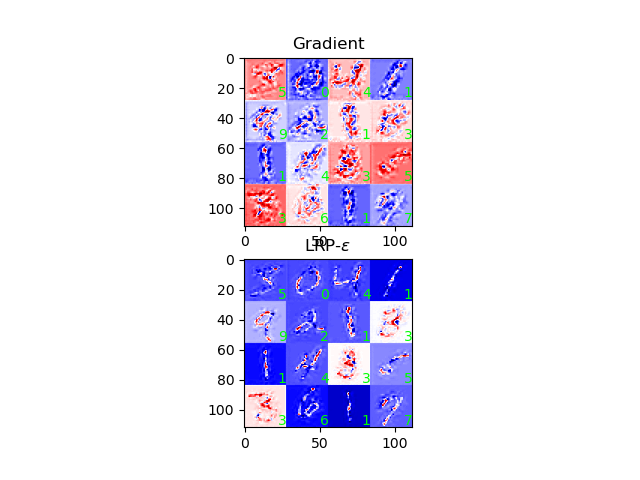
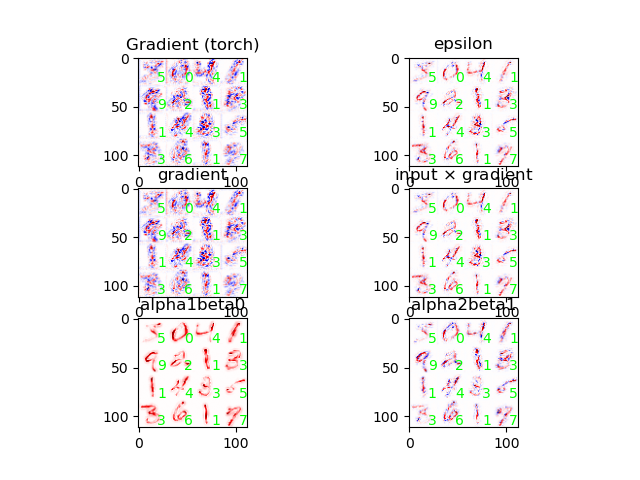
Added alpha beta rule to convolutions and linear layers.

Changed region(s): [[0.1562, 0.0625, 0.8438, 0.9375]]

diff --git a/examples/relevance_based.py b/examples/relevance_based.py
@@ -10,8 +10,13 @@ train_loader, test_loader = get_mnist_data(batch_size=batch_size)
 
 def normalize_and_merge_batch(a):
     a = a.permute(0, 2, 3, 1)
-    a -= a.view(batch_size, -1).min(1)[0].view(-1, 1, 1, 1)
+    # a -= a.view(batch_size, -1).min(1)[0].view(-1, 1, 1, 1)
     a /= torch.abs(a).view(batch_size, -1).max(1)[0].view(-1, 1, 1, 1) + 1e-6
+
+    if a.min() < 0: a = (a+1) / 2
+    else:           a = (a+1) / 2
+
+    print(a.min(), a.max())
 
     a = a.view(4, 4, 28, 28, 1)
     a = a.permute(0, 2, 1, 3, 4)
@@ -28,36 +33,47 @@ y_hat = y_hat[torch.arange(batch_size), pred]
 y_hat = y_hat.sum()
 y_hat.backward()
 _y_hat = y_hat
-
-
 a = normalize_and_merge_batch(x.grad)
 
-x.grad = None
-y_hat = model.forward(x, explain=True)
-y_hat = y_hat[torch.arange(batch_size), y_hat.max(1)[1]]
-y_hat = y_hat.sum()
-y_hat.backward()
+def plot_attribution(a, ax_, title):
 
-assert torch.allclose(_y_hat, y_hat)
+    cmap = plt.get_cmap('seismic')
 
-b = normalize_and_merge_batch(x.grad)
+    colors = cmap(a.view(-1))
+    colors = colors.reshape(a.size(0), a.size(1), 4)
+     
+    ax_.imshow(colors)
+    for i in range(4):
+        for j in range(4):
+            ax_.text(28+j*28, 28+i*28, pred[i*4+j].item(), horizontalalignment="right", verticalalignment="bottom", color="lime")
+    ax_.set_title(title)
 
-fig, ax = plt.subplots(2, 1)
+fig, ax = plt.subplots(3, 2)
+plot_attribution(a, ax[0, 0], "Gradient (torch)")
 
-ax[0].imshow(a, cmap='seismic')
-for i in range(4):
-    for j in range(4):
-        ax[0].text(28+j*28, 28+i*28, pred[i*4+j].item(), horizontalalignment="right", verticalalignment="bottom", color="lime")
+def run_and_plot_rule(rule, ax_, title=None, postprocess=None): 
+    x.grad = None
+    y_hat = model.forward(x, explain=True, rule=rule)
+    y_hat = y_hat[torch.arange(batch_size), y_hat.max(1)[1]]
+    y_hat = y_hat.sum()
+    y_hat.backward()
+    assert torch.allclose(_y_hat, y_hat)
 
+    attr = x.grad
+    if postprocess: 
+        with torch.no_grad(): 
+            attr = postprocess(attr)
 
-ax[1].imshow(b, cmap='seismic')
-for i in range(4):
-    for j in range(4):
-        ax[1].text(28+j*28, 28+i*28, pred[i*4+j].item(), horizontalalignment="right", verticalalignment="bottom", color="lime")
+    attr = normalize_and_merge_batch(attr)
+    if title is None: title = rule
+    plot_attribution(attr, ax_, title)
 
-ax[0].set_title("Gradient")
-ax[1].set_title("LRP-$\\varepsilon$")
-
+run_and_plot_rule("epsilon", ax[0, 1])
+run_and_plot_rule("gradient", ax[1, 0])
+run_and_plot_rule("gradient", ax[1, 1], title="input $\\times$ gradient", postprocess = lambda attribution: attribution * x)
+run_and_plot_rule("alpha1beta0", ax[2, 0])
+run_and_plot_rule("alpha2beta1", ax[2, 1])
+# 
 fig.savefig("model trained 1 epoch")
 plt.show()
 

diff --git a/lrp/functional/conv.py b/lrp/functional/conv.py
@@ -1,3 +1,4 @@
+import torch
 import torch.nn.functional as F
 from torch.autograd import Function
 
@@ -17,5 +18,64 @@ class Conv2DEpsilon(Function):
         relevance_input  = relevance_input * input
         return relevance_input, *[None]*6
 
-conv2d = Conv2DEpsilon.apply
+def _conv_alpha_beta_forward(ctx, input, weight, bias, stride, padding, dilation, groups): 
+    Z = F.conv2d(input, weight, bias, stride, padding, dilation, groups)
+    ctx.save_for_backward(input, weight, Z,  bias)
+    return Z
+
+def _conv_alpha_beta_backward(alpha, beta, ctx, relevance_output):
+        input, weights, Z, bias = ctx.saved_tensors
+        sel = weights > 0
+        zeros = torch.zeros_like(weights)
+
+        weights_pos       = torch.where(sel,  weights, zeros)
+        weights_neg       = torch.where(~sel, weights, zeros)
+
+        input_pos         = torch.where(input >  0, input, torch.zeros_like(input))
+        input_neg         = torch.where(input <= 0, input, torch.zeros_like(input))
+
+        def f(X1, X2, W1, W2): 
+
+            Z1  = F.conv2d(X1, W1, bias=None, stride=1, padding=1) 
+            Z2  = F.conv2d(X2, W2, bias=None, stride=1, padding=1)
+            Z   = Z1 + Z2
+
+            rel_out = relevance_output / (Z + (Z==0).float()* 1e-6)
+
+            t1 = F.conv_transpose2d(rel_out, W1, bias=None, padding=1) 
+            t2 = F.conv_transpose2d(rel_out, W2, bias=None, padding=1)
+
+            r1  = t1 * X1
+            r2  = t2 * X2
+
+            return r1 + r2
+        pos_rel = f(input_pos, input_neg, weights_pos, weights_neg)
+        neg_rel = f(input_neg, input_pos, weights_pos, weights_neg)
+
+        return pos_rel * alpha - neg_rel * beta, *[None]*6        
+
+class Conv2DAlpha1Beta0(Function):
+    @staticmethod
+    def forward(ctx, input, weight, bias=None, stride=1, padding=0, dilation=1, groups=1):
+        return _conv_alpha_beta_forward(ctx, input, weight, bias, stride, padding, dilation, groups)
+    
+    @staticmethod
+    def backward(ctx, relevance_output):
+        return _conv_alpha_beta_backward(1., 0., ctx, relevance_output)
+
+class Conv2DAlpha2Beta1(Function):
+    @staticmethod
+    def forward(ctx, input, weight, bias=None, stride=1, padding=0, dilation=1, groups=1):
+        return _conv_alpha_beta_forward(ctx, input, weight, bias, stride, padding, dilation, groups)
+    
+    @staticmethod
+    def backward(ctx, relevance_output):
+        return _conv_alpha_beta_backward(2., 1., ctx, relevance_output)
+
+conv2d = {
+        "gradient":             F.conv2d,
+        "epsilon":              Conv2DEpsilon.apply,
+        "alpha1beta0":          Conv2DAlpha1Beta0.apply,
+        "alpha2beta1":          Conv2DAlpha2Beta1.apply,
+}
 

diff --git a/lrp/functional/linear.py b/lrp/functional/linear.py
@@ -1,3 +1,4 @@
+import torch
 import torch.nn.functional as F
 from torch.autograd import Function
 
@@ -17,4 +18,65 @@ class LinearEpsilon(Function):
         relevance_input  = relevance_input * input
         return relevance_input, None, None
 
-linear = LinearEpsilon.apply
+
+def _forward_alpha_beta(ctx, input, weight, bias):
+    Z = F.linear(input, weight, bias)
+    ctx.save_for_backward(input, weight, Z, bias)
+    return Z
+
+def _backward_alpha_beta(alpha, beta, ctx, relevance_output):
+    input, weights, Z, bias = ctx.saved_tensors
+    sel = weights > 0
+    zeros = torch.zeros_like(weights)
+
+    weights_pos       = torch.where(sel,  weights, zeros)
+    weights_neg       = torch.where(~sel, weights, zeros)
+
+    input_pos         = torch.where(input >  0, input, torch.zeros_like(input))
+    input_neg         = torch.where(input <= 0, input, torch.zeros_like(input))
+
+    def f(X1, X2, W1, W2): 
+
+        Z1  = F.linear(X1, W1, bias=None) 
+        Z2  = F.linear(X2, W2, bias=None)
+        Z   = Z1 + Z2
+
+        rel_out = relevance_output / (Z + (Z==0).float()* 1e-6)
+
+        t1 = F.linear(rel_out, W1.t(), bias=None) 
+        t2 = F.linear(rel_out, W2.t(), bias=None)
+
+        r1  = t1 * X1
+        r2  = t2 * X2
+
+        return r1 + r2
+
+    pos_rel = f(input_pos, input_neg, weights_pos, weights_neg)
+    neg_rel = f(input_neg, input_pos, weights_pos, weights_neg)
+
+    return pos_rel * alpha - neg_rel * beta, *[None]*2        
+
+class LinearAlpha1Beta0(Function):
+    @staticmethod
+    def forward(ctx, input, weight, bias=None):
+        return _forward_alpha_beta(ctx, input, weight, bias)
+
+    @staticmethod
+    def backward(ctx, relevance_output):
+        return _backward_alpha_beta(1., 0., ctx, relevance_output)
+
+class LinearAlpha2Beta1(Function):
+    @staticmethod
+    def forward(ctx, input, weight, bias=None):
+        return _forward_alpha_beta(ctx, input, weight, bias)
+
+    @staticmethod
+    def backward(ctx, relevance_output):
+        return _backward_alpha_beta(2., 1., ctx, relevance_output)
+
+linear = {
+        "gradient":             F.linear,
+        "epsilon":              LinearEpsilon.apply,
+        "alpha1beta0":          LinearAlpha1Beta0.apply,
+        "alpha2beta1":          LinearAlpha2Beta1.apply,
+}

diff --git a/lrp/conv.py b/lrp/conv.py
@@ -3,14 +3,14 @@ import torch.nn.functional as F
 from .functional import conv2d
 
 class Conv2d(torch.nn.Conv2d): 
-    def _conv_forward_explain(self, input, weight):
+    def _conv_forward_explain(self, input, weight, conv2d_fn):
         if self.padding_mode != 'zeros':
-            return conv2d(F.pad(input, self._reversed_padding_repeated_twice, mode=self.padding_mode),
+            return conv2d_fn(F.pad(input, self._reversed_padding_repeated_twice, mode=self.padding_mode),
                             weight, self.bias, self.stride,
                             _pair(0), self.dilation, self.groups)
-        return conv2d(input, weight, self.bias, self.stride,
+        return conv2d_fn(input, weight, self.bias, self.stride,
                         self.padding, self.dilation, self.groups)
 
-    def forward(self, input, explain=False):
+    def forward(self, input, explain=False, rule="epsilon"):
         if not explain: return super(Conv2d, self).forward(input)
-        return self._conv_forward_explain(input, self.weight)
+        return self._conv_forward_explain(input, self.weight, conv2d[rule])

diff --git a/lrp/sequential.py b/lrp/sequential.py
@@ -2,11 +2,11 @@ import torch
 from . import Linear, Conv2d
 
 class Sequential(torch.nn.Sequential):
-    def forward(self, input, explain=False):
+    def forward(self, input, explain=False, rule="epsilon"):
         if not explain: return super(Sequential, self).forward(input)
         for module in self:
             if isinstance(module, Conv2d) or isinstance(module, Linear): 
-                input = module.forward(input, explain=True)
+                input = module.forward(input, explain=True, rule=rule)
             else: 
                 input = module(input)
         return input

diff --git a/lrp/linear.py b/lrp/linear.py
@@ -2,6 +2,6 @@ import torch
 from .functional import linear
 
 class Linear(torch.nn.Linear):
-    def forward(self, input, explain=False):
+    def forward(self, input, explain=False, rule="epsilon"):
         if not explain: return super(Linear, self).forward(input)
-        return linear(input, self.weight, self.bias)
+        return linear[rule](input, self.weight, self.bias)
